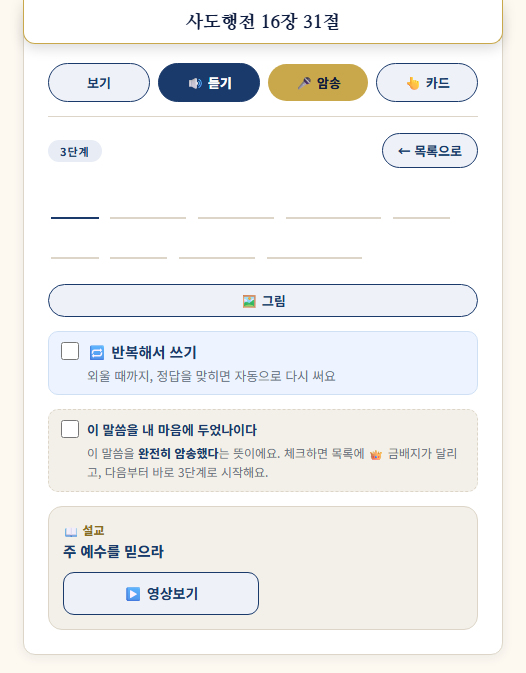
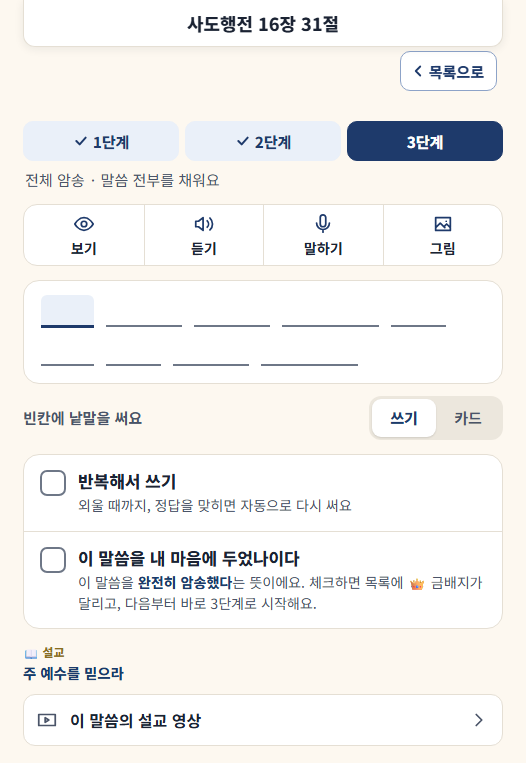
feat(디자인 개편): 암송 · 말씀 도전 화면 A안을 모든 성도님께(친구 「이제 시안대로 적용」) — v3.634
- MEMO_LAYOUT = "a" (롤백 "old" 한 줄 + bump · 깃 태그 memo-before-a-2026-10-14)
- 한 기기만 옛 화면: 설정 → 🔒 관리 페이지 「새 화면 / 옛 화면」 · ?memo=old · ?memo=off
- 미리보기 줄은 이 기기만 다르게 볼 때만 · B·C 시안 걷음(남은 b·c 표식은 A 로)
- 참인 말만: 설명서(말씀 암송 tip · 카드로 채우기 · 소리 내어 암송하기 · 말씀 도전) · 도움말 넷 · guide ⑤⑥ 문장 + 사진 셋 · ④ 손가락 자리

diff --git a/app.js b/app.js
@@ -6,7 +6,7 @@
 
 // 이 파일의 빌드 번호 — index.html의 app.js?v= 와 반드시 같아야 한다.
 // (tools/bump.py가 둘을 함께 올린다)
-const APP_BUILD = "20261014m";
+const APP_BUILD = "20261014n";
 
 // 배포 직후 CDN이 아직 옛 app.js를 내보내면, 브라우저는 그 옛 내용을 '새 주소'
 // 아래 캐시해 버린다. 주소가 다시 바뀌기 전까지(최대 10분) 옛 화면이 남는 이유다.
@@ -776,24 +776,41 @@ function albumAActive() {
   if (ALBUM_LAYOUT === "a") return true;
   try { return localStorage.getItem(ALBUM_A_KEY) === "1"; } catch (e) { return false; }
 }
-// ── 🧪 암송 화면 시안 A·B·C 미리보기(2026-10-14 친구 「암송화면 시안A, 시안B, 시안C 모두 만들어 주세요」 · docs/notes/design-refresh.md) ──
-//   ?memo=a|b|c 로 연 기기에서만 그 시안 꼴(?memo=off 나 화면 위 「원래」로 되돌림 · 표식 memo-preview 하나 · 화면 위 줄에서 A·B·C 를 바로 바꿔 본다).
-//   renderTestScreen 이 옛 화면을 다 그린 뒤 applyMemoLayout 이 **옮겨 담는다**(첫 화면 A안과 같은 방식) —
-//   빈칸 · 카드 · 채점 · 음성 · 저장 · 단계 완료 창은 옛 코드 그대로다(docs/notes/memorize-flow.md 의 함정 자리를 안 건드린다).
-//   ⚠ 위 구절 띠(.test-ref-sticky)에는 아무것도 넣지 않는다 — 아이폰 앱이 그 글자를 읽어 제 띠를 그린다(js/push.js). 그래서 「목록」은 띠 밑 첫 줄에.
+// ── 암송 · 말씀 도전 화면 꼴 스위치(2026-10-14 친구 「이제 시안대로 적용」 — 시안 A 를 모든 성도님께 · docs/notes/design-refresh.md) ──
+//   "a"   = 시안 A — renderTestScreen · renderChallenge 가 옛 화면을 다 그린 뒤 applyMemoLayout · applyChallengeA 가 **옮겨 담는다**(첫 화면 A안과 같은 방식).
+//           빈칸 · 카드 · 채점 · 음성 · 저장 · 단계 완료 창은 옛 코드 그대로다(docs/notes/memorize-flow.md 의 함정 자리를 안 건드린다).
+//   "old" = 옛 화면(10/14 전 그대로) — 옮겨 담기만 안 부르면 그 모습이다.
+//   ⚠ 롤백: 아래 값을 "old" 로 → python tools/bump.py → 푸시(2~3분). 바꾸기 직전 판은 깃 태그 memo-before-a-2026-10-14.
+//   한 기기만: ?memo=old(옛 화면 · 설정 → 🔒 관리 페이지에서도) · ?memo=a(A — 기본이 old 일 때 미리보기) · ?memo=off(기본으로). 표식 memo-preview 하나.
+//   (B · C 시안은 10/14 미리보기만 하고 걷었다 — 남은 b · c 표식은 A 로 본다 · style.css 의 .memo-b/.memo-c 덩이는 나중에 걷는다)
+//   ⚠ 위 구절 띠(.test-ref-sticky)에는 아무것도 넣지 않는다 — 아이폰 앱이 그 글자를 읽어 제 띠를 그린다(js/push.js). 그래서 「목록으로」는 띠 밑 줄에.
+const MEMO_LAYOUT = "a";
 const MEMO_KEY = "memo-preview";
 function readMemoPreviewParam() {
   try {
     const url = new URL(location.href);
     const m = url.searchParams.get("memo");
-    if (!["a", "b", "c", "off", "0"].includes(m)) return;
-    if (m === "a" || m === "b" || m === "c") localStorage.setItem(MEMO_KEY, m); else localStorage.removeItem(MEMO_KEY);
+    if (!["a", "b", "c", "old", "off", "0"].includes(m)) return;
+    if (m === "old") localStorage.setItem(MEMO_KEY, "old");
+    else if (m === "off" || m === "0") localStorage.removeItem(MEMO_KEY);
+    else localStorage.setItem(MEMO_KEY, "a");
     url.searchParams.delete("memo");
     history.replaceState(null, "", url.pathname + url.search + url.hash);
   } catch (e) {}
 }
+// 이 기기의 암송 · 도전 화면 꼴 — "a" 또는 ""(옛 화면)
 function memoVariant() {
-  try { const m = localStorage.getItem(MEMO_KEY); return m === "a" || m === "b" || m === "c" ? m : ""; } catch (e) { return ""; }
+  let m = "";
+  try { m = localStorage.getItem(MEMO_KEY) || ""; } catch (e) {}
+  if (m === "old") return "";
+  if (m === "a" || m === "b" || m === "c") return "a";
+  return MEMO_LAYOUT === "a" ? "a" : "";
+}
+// 이 기기만 다르게 보고 있나(미리보기 · 옛 화면) — 그때만 화면 위에 표시 줄을 단다
+function memoPreviewing() {
+  let m = "";
+  try { m = localStorage.getItem(MEMO_KEY) || ""; } catch (e) {}
+  return MEMO_LAYOUT === "a" ? m === "old" : !!m && m !== "old";
 }
 function homeAPreview() { try { return localStorage.getItem(HOME_A_KEY) === "1"; } catch (e) { return false; } }
 function homeOldView() { try { return localStorage.getItem(HOME_OLD_KEY) === "1"; } catch (e) { return false; } }
@@ -7589,16 +7606,14 @@ function applyMemoLayout(verse, stage) {
   const back = document.getElementById("back-to-list-btn");
   if (!sticky || !btnRow || !sentence) return;
 
-  // 0) 미리보기 표시 줄 — 그 자리에서 A · B · C · 원래를 바꿔 본다
+  // 0) 미리보기 표시 줄 — 기본이 옛 화면(MEMO_LAYOUT "old")인데 이 기기만 A 를 볼 때만(모두의 화면에는 없다)
   const bar = document.createElement("div");
   bar.className = "hb-bar mm-bar";
-  bar.innerHTML = `<span>🧪 암송 화면 시안 · 이 기기에서만</span><span class="mm-pick" role="group" aria-label="시안 고르기">` +
-    ["a", "b", "c"].map((k) => `<button type="button" data-v="${k}" aria-pressed="${k === v}">${k.toUpperCase()}</button>`).join("") +
-    `<button type="button" data-v="">원래</button></span>`;
-  bar.querySelectorAll("button[data-v]").forEach((b) => b.addEventListener("click", () => {
-    try { if (b.dataset.v) localStorage.setItem(MEMO_KEY, b.dataset.v); else localStorage.removeItem(MEMO_KEY); } catch (e) {}
+  bar.innerHTML = `<span>🧪 새 암송 화면 미리보기 · 이 기기에서만</span><span class="mm-pick"><button type="button" data-v="">원래 화면으로</button></span>`;
+  bar.querySelector("button[data-v]").addEventListener("click", () => {
+    try { localStorage.removeItem(MEMO_KEY); } catch (e) {}
     renderTestScreen(verse, stage);
-  }));
+  });
 
   // 1) 머리 — 「목록」 + 단계(B 는 한 줄 · A · C 는 두 줄)
   const head = document.createElement("div");
@@ -7622,8 +7637,7 @@ function applyMemoLayout(verse, stage) {
     steps.innerHTML = `<div class="mm-steprow"><span class="mm-st">${stage}단계 <span>/ 3단계</span></span><span class="mm-note">${note}</span></div>` +
       `<div class="mm-bars" aria-hidden="true">${[1, 2, 3].map((k) => `<i class="${k <= stage ? "on" : ""}"></i>`).join("")}</div>`;
   }
-  sticky.after(bar);
-  bar.after(head);
+  if (memoPreviewing()) { sticky.after(bar); bar.after(head); } else sticky.after(head);
   if (v === "b") head.appendChild(steps); else head.after(steps);
 
   // 2) 도구 — 보기 · 듣기 · 말하기(+ 그림 · 설교 영상 · 쓰기/카드)
@@ -7729,10 +7743,10 @@ function applyChallengeA(verse, hard) {
   if (card.querySelector(".ref-input")) scr.classList.add("mm-ref");
   const cardMode = isCardMode();
 
-  // 0) 미리보기 표시 줄
+  // 0) 미리보기 표시 줄 — 이 기기만 A 를 볼 때만(모두의 화면이 A 면 없다)
   const bar = document.createElement("div");
   bar.className = "hb-bar mm-bar";
-  bar.innerHTML = `<span>🧪 말씀 도전 시안 A · 이 기기에서만</span><span class="mm-pick"><button type="button" id="mm-ch-off">원래 화면으로</button></span>`;
+  bar.innerHTML = `<span>🧪 새 도전 화면 미리보기 · 이 기기에서만</span><span class="mm-pick"><button type="button" id="mm-ch-off">원래 화면으로</button></span>`;
   bar.querySelector("#mm-ch-off").addEventListener("click", () => {
     try { localStorage.removeItem(MEMO_KEY); } catch (e) {}
     stopSpeaking();
@@ -7762,8 +7776,7 @@ function applyChallengeA(verse, hard) {
     new MutationObserver(short).observe(remain, { childList: true, characterData: true, subtree: true });
     head.appendChild(remain);
   }
-  sticky.after(bar);
-  bar.after(head);
+  if (memoPreviewing()) { sticky.after(bar); bar.after(head); } else sticky.after(head);
 
   // 2) 도구 칸 — 힌트 · 다른 말씀 · 말하기 · 그림
   mmTool(document.getElementById("hint-btn"), "bulb", "힌트");
@@ -9307,19 +9320,21 @@ function renderManageMenu(back) {
   setupMemoPreviewBox(() => renderManageMenu(back));
 }
 
-// 🧪 암송 화면 시안 미리보기 켜기 — 이 기기에서만(2026-10-14 친구 「PC 에서는 되는데 모바일 폰에서는 시안 화면이 안 떠요」).
+// 🧪 이 기기의 암송 · 도전 화면 — 새 화면(A) / 옛 화면(2026-10-14 · 견주어 보기 · 롤백 전 시험용).
 //   ?memo= 주소는 그 주소를 연 브라우저에만 표식을 남긴다 — 플레이 앱 · 아이폰 앱 · 카카오톡 안 브라우저 · 삼성 인터넷은 저장 공간이 따로라
-//   폰에서는 주소로 켠 표식이 앱에 안 닿는다. 그래서 어느 앱에서든 들어오는 이 메뉴(설정 → 🔒 관리 페이지)에서 켜고 끈다(표식은 같은 memo-preview · memo-font).
-//   입구가 모든 성도님께 보이지만 바뀌는 것은 누른 그 기기의 암송 화면뿐이고, 암송 화면 위 「원래」로도 끈다.
+//   폰에서는 주소로 켠 표식이 앱에 안 닿는다(친구 「모바일에서는 안 떠요」). 그래서 어느 앱에서든 들어오는 이 메뉴(설정 → 🔒 관리 페이지)에서 바꾼다.
+//   입구가 모든 성도님께 보이지만 바뀌는 것은 누른 그 기기뿐이다.
 function memoPreviewBoxHtml() {
   const v = memoVariant();
-  const btn = (attr, val, label, on) => `<button type="button" ${attr}="${val}" aria-pressed="${on}">${label}</button>`;
+  const btn = (val, label, on) => `<button type="button" data-pv="${val}" aria-pressed="${on}">${label}</button>`;
+  // 누르면 넣을 표식 — 기본(MEMO_LAYOUT)과 같은 꼴이면 표식을 지운다
+  const newVal = MEMO_LAYOUT === "a" ? "" : "a", oldVal = MEMO_LAYOUT === "a" ? "old" : "";
   return `
         <div class="mg-pv">
-          <div class="mg-pv-t">🧪 암송 화면 시안 미리보기 <span>이 기기에서만</span></div>
-          <div class="mg-pv-row" role="group" aria-label="시안">${[["a", "A"], ["b", "B"], ["c", "C"]].map(([k, l]) => btn("data-pv", k, l, v === k)).join("")}${btn("data-pv", "", "끄기", !v)}</div>
-          <button type="button" class="summary-install" id="mg-pv-open"${v ? "" : " disabled"}>📖 이번 주 말씀 암송 화면 열기</button>
-          <p class="btn-sub mg-pv-note">${v ? `지금 이 기기는 시안 ${v.toUpperCase()}로 보여요.` : "시안을 고르면 이 기기의 암송 화면만 그 모양으로 바뀌어요."} 다른 분 화면은 그대로예요.</p>
+          <div class="mg-pv-t">🧪 암송 · 도전 화면 <span>이 기기에서만</span></div>
+          <div class="mg-pv-row" role="group" aria-label="화면 꼴">${btn(newVal, "새 화면", v === "a")}${btn(oldVal, "옛 화면", v !== "a")}</div>
+          <button type="button" class="summary-install" id="mg-pv-open">📖 이번 주 말씀 암송 화면 열기</button>
+          <p class="btn-sub mg-pv-note">${MEMO_LAYOUT === "a" ? "모든 성도님은 새 화면이에요." : "모든 성도님은 옛 화면이에요."} 여기서 바꾸면 이 기기에서만 달라져요.</p>
         </div>`;
 }
 function setupMemoPreviewBox(rerender) {
@@ -9534,14 +9549,14 @@ const MANUAL = [
       "맞으면 <b>초록색</b>으로 바뀌고 다음 칸으로 넘어가요.",
       "틀리면 잠깐 <b>빨간색</b>이 되고, 다시 넣으면 돼요.",
     ],
-    tip: "막히면 위쪽 <b>보기</b>를 누르세요. 정답이 나와요. <b>이번주 말씀</b>은 첫 화면 가운데 카드의 <b>암송하기</b>로 바로 갈 수 있어요.",
+    tip: "막히면 말씀 위 도구 칸의 <b>보기</b>를 누르세요. 정답이 나와요. 다른 구절로 가시려면 위쪽 <b>‹ 목록으로</b>를 누르세요. <b>이번주 말씀</b>은 첫 화면 가운데 카드의 <b>암송하기</b>로 바로 갈 수 있어요.",
   },
   {
     icon: "👆", title: "카드로 채우기",
     lead: "자판이 어려우시면 낱말을 눌러서 채워요.",
     art: '<div class="mn-row"><span class="mn-chip">내</span><span class="mn-chip">말씀은</span><span class="mn-chip">발에</span><span class="mn-chip">주의</span></div>',
     steps: [
-      "<b>암송·도전</b> 어느 화면에서나 위쪽 <b>👆 카드</b>를 누르세요.",
+      "<b>암송·도전</b> 화면의 말씀 아래 <b>쓰기 | 카드</b>에서 <b>카드</b>를 누르세요.",
       "아래에 말씀의 <b>낱말 카드</b>가 섞여서 나와요.",
       "빈칸 <b>순서대로</b> 맞는 카드를 누르면 채워져요.",
       "틀린 카드는 흔들리기만 하고 넘어가지 않아요.",
@@ -9564,11 +9579,11 @@ const MANUAL = [
   {
     icon: "🎤", title: "소리 내어 암송하기",
     lead: "소리 내어 외우셔도 됩니다.",
-    art: '<div class="mn-row"><span class="mn-btn mn-btn-on">🎤 암송</span></div>',
+    art: '<div class="mn-row"><span class="mn-btn mn-btn-on">🎤 말하기</span></div>',
     steps: [
-      "암송 화면 위쪽 <b>🎤 암송</b>을 누르세요.",
+      "암송·도전 화면 도구 칸의 <b>말하기</b>(마이크)를 누르세요.",
       "말씀을 <b>소리 내어</b> 외우세요.",
-      "다 하시면 <b>■ 종료</b>를 누르세요.",
+      "다 하시면 같은 자리의 <b>종료</b>를 누르세요.",
       "얼마나 맞았는지 알려 줍니다. <b>85%</b> 넘게 맞으면 통과예요.",
     ],
     tip: "처음에 폰이 <b>마이크를 써도 되냐</b>고 물어봐요. <b>「허용」</b>을 누르세요.",
@@ -9579,8 +9594,8 @@ const MANUAL = [
     art: '<div class="mn-row"><span class="mn-btn mn-btn-on">🔥 말씀 도전</span></div>',
     steps: [
       "첫 화면 <b>🔥 말씀 도전</b>을 누르면 말씀 하나가 <b>무작위로</b> 나와요. 전부 빈칸이에요.",
-      "막히면 <b>💡 힌트</b>를 누르세요. 앞 글자부터 한 글자씩 보여 줍니다.",
-      "다른 말씀으로 하고 싶으시면 <b>🔀 다른말씀</b>을 누르세요.",
+      "막히면 도구 칸의 <b>힌트</b>를 누르세요. 앞 글자부터 한 글자씩 보여 줍니다.",
+      "다른 말씀으로 하고 싶으시면 <b>다른 말씀</b>을 누르세요. 위쪽에 <b>남은 빈칸</b> 수가 보여요.",
     ],
     tip: "암송·도전을 한 횟수가 모두 <b>🏆 도전 순위</b>에 올라가요. 첫 화면 맨 아래 <b>📕 구절</b>을 켜 두면 도전 때 <b>구절(예: 시 119:105)</b>도 함께 써요.",
   },
@@ -9915,23 +9930,23 @@ function renderHelp(onClose) {
             <li><b>2단계</b> 빈칸 늘리기 — 더 많은 빈칸 (약 65%)</li>
             <li><b>3단계</b> 전체 암송 — 출처만 보고 전체 입력</li>
           </ul>
-          <p>맞으면 초록색으로 잠기고 다음 칸으로 이동해요. 틀리면 잠깐 빨갛게 표시된 뒤 다시 입력할 수 있어요. 모든 칸을 맞히면 다음 단계로 넘어가요. 막히면 위쪽 <b>보기</b>로 정답을 볼 수 있어요.</p>
-          <p>자판이 번거로우시면 <b>👆 카드</b>를 누르세요. 낱말 카드를 순서대로 눌러 채워요. <b>암송·도전</b>에서 모두 쓸 수 있어요. 늘 카드로 하시려면 <b>⚙ 설정 → 암송 입력 방법</b>(첫 화면 맨 아래 <b>⌨ 쓰기</b> 단추와 같아요)에서 바꿔 두세요.</p>
+          <p>맞으면 초록색으로 잠기고 다음 칸으로 이동해요. 틀리면 잠깐 빨갛게 표시된 뒤 다시 입력할 수 있어요. 모든 칸을 맞히면 다음 단계로 넘어가요. 막히면 말씀 위 도구 칸의 <b>보기</b>로 정답을 볼 수 있어요.</p>
+          <p>자판이 번거로우시면 말씀 아래 <b>쓰기 | 카드</b>에서 <b>카드</b>를 누르세요. 낱말 카드를 순서대로 눌러 채워요. <b>암송·도전</b>에서 모두 쓸 수 있어요. 늘 카드로 하시려면 <b>⚙ 설정 → 암송 입력 방법</b>(첫 화면 맨 아래 <b>⌨ 쓰기</b> 단추와 같아요)에서 바꿔 두세요.</p>
         </section>
 
         <section class="help-section">
           <h3>🔥 말씀 도전</h3>
-          <p><b>말씀 도전</b>은 말씀 하나를 무작위로 골라 전부 빈칸으로 내 줘요. 막히면 <b>💡 힌트</b>가 앞 글자부터 한 글자씩 보여 줘요. 암송·도전 횟수는 모두 <b>도전 순위</b>에 더해져요.</p>
+          <p><b>말씀 도전</b>은 말씀 하나를 무작위로 골라 전부 빈칸으로 내 줘요. 막히면 도구 칸의 <b>힌트</b>가 앞 글자부터 한 글자씩 보여 줘요. 암송·도전 횟수는 모두 <b>도전 순위</b>에 더해져요.</p>
         </section>
 
         <section class="help-section">
           <h3>🔊 말씀 듣기</h3>
-          <p>말씀 목록의 <b>🔊</b>로 말씀을 들을 수 있어요. <b>빠르게 여러 번 누르면 그 횟수만큼 반복</b>해서 읽어줘요. 목록 맨 위 <b>▶ 전체 듣기</b>는 처음부터 끝까지 이어서 읽어 주고, 암송 화면의 <b>🔊 듣기</b>는 한 번 더 누르면 멈춰요. 읽는 속도는 <b>⚙ 설정</b>에서 바꿀 수 있어요.</p>
+          <p>말씀 목록의 <b>🔊</b>로 말씀을 들을 수 있어요. <b>빠르게 여러 번 누르면 그 횟수만큼 반복</b>해서 읽어줘요. 목록 맨 위 <b>▶ 전체 듣기</b>는 처음부터 끝까지 이어서 읽어 주고, 암송 화면 도구 칸의 <b>듣기</b>는 한 번 더 누르면 멈춰요. 읽는 속도는 <b>⚙ 설정</b>에서 바꿀 수 있어요.</p>
         </section>
 
         <section class="help-section">
           <h3>🎤 음성 암송</h3>
-          <p><b>🎤 암송</b>을 누르고 말씀을 소리 내어 외운 뒤 <b>■ 종료</b>를 누르면 정확도를 알려줘요 (<b>85%</b> 이상이면 통과). 크롬·사파리에서 마이크를 허용해 주세요.</p>
+          <p>도구 칸의 <b>말하기</b>를 누르고 말씀을 소리 내어 외운 뒤 <b>종료</b>를 누르면 정확도를 알려줘요 (<b>85%</b> 이상이면 통과). 크롬·사파리에서 마이크를 허용해 주세요.</p>
         </section>
 
         <section class="help-section">

diff --git a/guide/index.html b/guide/index.html
@@ -187,18 +187,18 @@ var STEPS = [
     say:"구절을 하나 누르면 암송이 시작돼요. 맨 위 <b>▶ 전체 듣기</b>를 누르면 처음부터 끝까지 이어서 읽어 줍니다.",
     tip:"구절 옆 🔊 를 누르면 그 말씀 하나만 들려줘요." },
 
-  { img:"shots/stage1.png", t:"④ 빈칸 채우기", tap:{x:47,y:45},
+  { img:"shots/stage1.png", t:"④ 빈칸 채우기", tap:{x:49,y:54},
     s:"1단계는 빈칸이 조금이에요.",
     say:"밑줄 친 곳에 말씀을 넣으세요. 맞으면 <b>초록색</b>이 되고 다음 칸으로 넘어가요. 틀리면 잠깐 빨간색이 됐다가 다시 넣으시면 됩니다." },
 
   { img:"shots/stage3.png", t:"⑤ 3단계 · 전부 빈칸",
     s:"1단계 → 2단계 → 3단계로 올라가요.",
-    say:"3단계는 요절만 보고 전부 넣는 단계예요. 막히면 위쪽 <b>보기</b>를 누르시면 정답이 나와요. 자판이 번거로우시면 <b>👆 카드</b>를 눌러 낱말을 골라 채우셔도 돼요 — 암송·도전에서 모두 쓸 수 있어요.",
+    say:"3단계는 요절만 보고 전부 넣는 단계예요. 막히면 도구 칸의 <b>보기</b>를 누르시면 정답이 나와요. 자판이 번거로우시면 말씀 아래 <b>쓰기 | 카드</b>에서 <b>카드</b>를 눌러 낱말을 골라 채우셔도 돼요 — 암송·도전에서 모두 쓸 수 있어요.",
     tip:"완전히 외우셨으면 아래 「이 말씀을 내 마음에 두었나이다」에 체크하세요. 👑 금배지가 달려요." },
 
   { img:"shots/challenge.png", t:"⑥ 말씀 도전",
     s:"외운 말씀을 빠르게 점검해요.",
-    say:"첫 화면의 <b>🔥 말씀 도전</b>은 구절을 무작위로 내 줍니다. 막히면 <b>💡 힌트</b>가 앞 글자부터 한 글자씩 보여 줘요. <b>🎤 암송</b>을 누르면 소리 내어 외우셔도 돼요." },
+    say:"첫 화면의 <b>🔥 말씀 도전</b>은 구절을 무작위로 내 줍니다. 막히면 <b>힌트</b>가 앞 글자부터 한 글자씩 보여 줘요. <b>말하기</b>를 누르면 소리 내어 외우셔도 돼요." },
 
   { img:"shots/album.png", t:"⑦ 나의 말씀 앨범",
     s:"외운 말씀이 모이는 곳이에요.",

diff --git a/index.html b/index.html
@@ -68,7 +68,7 @@
   <link rel="preconnect" href="https://fonts.gstatic.com" crossorigin />
   <link href="https://fonts.googleapis.com/css2?family=Gowun+Batang:wght@400;700&family=Lora:wght@400;600;700&family=Nanum+Myeongjo:wght@400;700;800&family=Noto+Sans+KR:wght@400;500;700;800&display=swap" rel="stylesheet" media="print" onload="this.media='all'" />
   <noscript><link href="https://fonts.googleapis.com/css2?family=Gowun+Batang:wght@400;700&family=Lora:wght@400;600;700&family=Nanum+Myeongjo:wght@400;700;800&family=Noto+Sans+KR:wght@400;500;700;800&display=swap" rel="stylesheet" /></noscript>
-  <link rel="stylesheet" href="style.css?v=20261014m" />
+  <link rel="stylesheet" href="style.css?v=20261014n" />
 </head>
 <body>
   <!-- 앱 시작 스플래시 화면 -->
@@ -77,7 +77,7 @@
       <img id="splash-logo" src="img/logo-gocheok.png" alt="고척교회" />
       <div class="splash-title">오직 성경, 말씀이 답이다!</div>
       <div class="splash-sub">주의 말씀은 내 발에 등이요<br>내 길에 빛이니이다</div>
-      <div class="splash-ver">v3.633</div>
+      <div class="splash-ver">v3.634</div>
       <img class="splash-denom" src="logo3.png?v=20260702y" alt="대한예수교장로회총회" onerror="this.style.display='none'" />
     </div>
   </div>
@@ -110,11 +110,11 @@
     <p style="text-align:center;padding:40px">불러오는 중...</p>
   </main>
 
-  <script src="js/config.js?v=20261014m"></script>
-  <script src="js/api.js?v=20261014m"></script>
-  <script src="js/push.js?v=20261014m"></script>
-  <script src="js/psalm.js?v=20261014m"></script>
-  <script src="js/events.js?v=20261014m"></script>
-  <script src="app.js?v=20261014m"></script>
+  <script src="js/config.js?v=20261014n"></script>
+  <script src="js/api.js?v=20261014n"></script>
+  <script src="js/push.js?v=20261014n"></script>
+  <script src="js/psalm.js?v=20261014n"></script>
+  <script src="js/events.js?v=20261014n"></script>
+  <script src="app.js?v=20261014n"></script>
 </body>
 </html>

diff --git a/admin.html b/admin.html
@@ -74,7 +74,7 @@
     // 교회 어드민으로 옮긴 관리 화면은 여기서 걷었다 — 성도 정보(2026-10-09) · 이벤트 · 찬양 아카이브 · 내게 주시는 말씀 기록 · 사역관리(2026-10-13).
     //   남은 것(성경암송 관리 · 설교·찬양 관리)은 설교 실전 확인 뒤 마지막 걷기에(docs/notes/admin-migration.md).
     //   ⚠ 교회 어드민(admin.onlybible.kr)으로 가는 타일은 두지 않는다(2026-10-13 친구 — 그곳은 주소로 직접 들어간다).
-    { ic:"📖", title:"성경암송 관리", desc:"통계 · 알림발송 · 주간리포트 · 게시판", href:"admin-stats.html?v=20261014m" },
+    { ic:"📖", title:"성경암송 관리", desc:"통계 · 알림발송 · 주간리포트 · 게시판", href:"admin-stats.html?v=20261014n" },
     { ic:"⛪", title:"설교·찬양 관리", desc:"설교 올리기(두 단계) · 설교 목록 · 매일 묵상 · 담당자 — 담당자도 이 주소로", href:"admin-sermon.html" },
     { ic:"🎬", title:"환영 인트로 미리보기", desc:"첫 방문 인트로 4장 — 성도님 화면엔 영향 없음", href:"index.html?preview=intro" },
     { ic:"🙏", title:"축복 인사 미리보기", desc:"첫 로그인 축복 카드 — 로그인 상태에서 확인", href:"index.html?preview=blessing" },

diff --git a/docs/notes/design-refresh.md b/docs/notes/design-refresh.md
@@ -66,6 +66,13 @@
 - 확인(2026-10-13 · localhost 개발 DB · 시험 계정에 10구절 마침·마음에 둠 2 를 그 브라우저 안에서만 꾸밈): 390 밝게 · 390 어둡게+크게 · 320 아주 크게 · 360 아주 크게+어둡게 × 기본 · 가리기 둘 + 엿보기 + 확인 · 첫 글자만 · 골라 듣기 · 풀이 · 「원래 화면으로」 → 넘침 0 · 잘림 0 · 화면 오류 0. 고친 것 둘: 320 아주 크게에서 제목이 세 줄로 꺾임(오른쪽 빈 칸 `.aa-ghost` 를 좁은 폰·아주 크게에서 뺌) · 360 아주 크게에서 「확인」이 아랫줄로(도구 줄 여백 줄임 · 320 아주 크게는 아직 아랫줄 — 잘리지는 않는다).
 - 같은 날 고친 것(v3.616): 위 「‹ 첫 화면」을 빼고 아래 고정 「첫 화면으로」를 되살렸다 · 「3분요약도 함께 듣기」 칩도 한 줄로. 확인 — 마지막 카드 아래 끝이 「첫 화면으로」 위(390: 720 < 768 · 320 아주 크게: 444 < 492). 미리보기 표시 줄은 모두에게 열면 사라진다.
 
+## ✅ 2026-10-14 암송 · 말씀 도전 화면 A안을 모든 성도님께(v3.634 · 친구 「이제 시안대로 적용」 → 「지금 적용」)
+- 스위치 `app.js` `MEMO_LAYOUT = "a"` · **롤백은 "old" 한 줄 + bump**(깃 태그 `memo-before-a-2026-10-14`). 한 기기만: 설정 → 🔒 관리 페이지 「🧪 암송 · 도전 화면 — 새 화면 / 옛 화면」 또는 `?memo=old` · `?memo=off`(기본으로). 표식 `memo-preview`("old" · 롤백 뒤 미리보기면 "a").
+- 미리보기 표시 줄은 이 기기만 다르게 볼 때만 뜬다(`memoPreviewing`). B · C 시안은 걷었다 — 남은 b · c 표식은 A 로 본다(`style.css` 의 `.memo-b` · `.memo-c` 덩이는 아직 남아 있다 — 다음 정리 때 걷는다).
+- 같이 고친 말(스킬 copy-truth): 설명서 「말씀 암송」 tip(도구 칸의 보기 · 위쪽 ‹ 목록으로) · 「카드로 채우기」(말씀 아래 쓰기 | 카드) · 「소리 내어 암송하기」(말하기 · 종료 · 그림 글도) · 「말씀 도전」(힌트 · 다른 말씀 · 남은 빈칸) · 도움말 넷 · `guide/` ⑤ · ⑥ 문장 + 사진 셋(stage1 · stage3 · challenge — ④ 손가락 표시 자리도 첫 빈칸으로).
+- 아직 옛 모양: 주제별 성경암송(네비게이토) 3단계 화면 · 복습 화면(친구 — 다음에 A 로) · 쉴만한 물가(제 꼴). 설명서 「주제별 성경암송」의 「👆 카드」는 그 화면이 바뀔 때 함께.
+- ⚠ 확인 못 한 것: 아이폰 앱(띠를 앱이 그려 머리 줄 자리를 90px 로 짐작) · 영어(NIV) 모드(개발 DB 에 영어 말씀이 없다).
+
 ## 🧪 암송 화면 시안 A · B · C 미리보기 — `?memo=a|b|c` (2026-10-14 · 친구 「암송화면 시안A, 시안B, 시안C 모두 만들어 주세요」)
 - **폰에서는 설정 → 🔒 관리 페이지 → 「🧪 암송 화면 시안 미리보기」**에서 켠다(아래 ⚠). PC 브라우저는 **https://gocheok.onlybible.kr/?memo=a**(또는 `b` · `c`)로 연 기기에서만 암송 화면(`renderTestScreen` — 이번 주 말씀 · 말씀 목록에서 들어가는 화면)이 그 시안 꼴이다. 화면 위 표시 줄에서 **A · B · C · 원래**를 그 자리에서 바꿔 본다(`?memo=off` 도 원래로). 표식은 localStorage `memo-preview` 하나 — 주소를 모르는 성도님 화면은 그대로다.
 - **옮겨 담기**(첫 화면 A안과 같은 방식) — `renderTestScreen` 이 옛 화면을 다 그린 뒤 `applyMemoLayout` 이 단추를 옮기고 꾸민다. 빈칸 · 카드 · 채점 · 음성 · 기록 · 단계 완료 창은 옛 코드 그대로(`memorize-flow.md` 의 함정 자리를 안 건드린다). CSS 는 `style.css` 끝 「🧪 암송 화면 시안 A · B · C」 덩이 — 모두 `.test-screen[data-memo]` 아래.

diff --git a/CLAUDE.md b/CLAUDE.md
@@ -59,7 +59,7 @@
 | 봉사 당번(2026-10-06 운영 · 문 닫힘 — 🧪만) — `duty_signups` 에 직접 쓰지 말 것 | `docs/notes/duty-roster.md` |
 | 관리 기능을 교회 어드민으로 옮기기(2026-10-08 결정) | `docs/notes/admin-migration.md` · `docs/backlog.md` 4-5 |
 | 안드로이드 앱(TWA)·위젯·플레이스토어(새 앱 `kr.onlybible.gocheok`) | `docs/notes/android-app.md` |
-| 디자인 개편(2026-10-12 시작 · 시안 A·B·C 의견 수렴 중 — 고르기 전엔 입히지 말 것) · 「전」 사진 `자료/design/` · **먼저 넣은 것**(10-12 운영): 첫 화면 남은 수·전체 수·% 빼기 · 말씀 목록 시안 B 구조(본문 두 줄 · 거르기 칸 「진행·마침·마음에 둠·안 함」 · 힌트는 마음에 둔 구절에만) · 상태 이름 「아직 안 함 · 1단계 마침 · 다 마침」 · **첫 화면 A안 운영(2026-10-13 · 이번 주 말씀 아래 줄 목록) — 롤백 `app.js` `HOME_LAYOUT = "old"` 한 줄 + bump(깃 태그 `home-before-a-2026-10-13`)** · 한 기기만 `?home=old` · B안 미리보기 `?home=b` · `?home=off` · **나의 말씀 앨범 A안 운영(2026-10-13 v3.617 · 롤백 `app.js` `ALBUM_LAYOUT = "old"` 한 줄 + bump)** · 「첫 화면으로」는 시안과 달리 늘 아래에 떠 있게(친구) · **✍ 말씀 글꼴 설정(2026-10-14 · 기본 고딕 · `html[data-wf]`)** · **말씀 도전 A안(미리보기 A 를 고른 기기만 · `applyChallengeA`)** · **암송 화면 시안 A·B·C 미리보기 `?memo=a|b|c`(2026-10-14 · 화면 위 줄에서 바꿔 보기 · 위 구절 띠에는 아무것도 넣지 말 것 — 아이폰 앱이 읽는다)** | `docs/notes/design-refresh.md` |
+| 디자인 개편(2026-10-12 시작 · 시안 A·B·C 의견 수렴 중 — 고르기 전엔 입히지 말 것) · 「전」 사진 `자료/design/` · **먼저 넣은 것**(10-12 운영): 첫 화면 남은 수·전체 수·% 빼기 · 말씀 목록 시안 B 구조(본문 두 줄 · 거르기 칸 「진행·마침·마음에 둠·안 함」 · 힌트는 마음에 둔 구절에만) · 상태 이름 「아직 안 함 · 1단계 마침 · 다 마침」 · **첫 화면 A안 운영(2026-10-13 · 이번 주 말씀 아래 줄 목록) — 롤백 `app.js` `HOME_LAYOUT = "old"` 한 줄 + bump(깃 태그 `home-before-a-2026-10-13`)** · 한 기기만 `?home=old` · B안 미리보기 `?home=b` · `?home=off` · **나의 말씀 앨범 A안 운영(2026-10-13 v3.617 · 롤백 `app.js` `ALBUM_LAYOUT = "old"` 한 줄 + bump)** · 「첫 화면으로」는 시안과 달리 늘 아래에 떠 있게(친구) · **✍ 말씀 글꼴 설정(2026-10-14 · 기본 고딕 · `html[data-wf]`)** · **암송 · 말씀 도전 A안 운영(2026-10-14 v3.634 — 롤백 `app.js` `MEMO_LAYOUT = "old"` 한 줄 + bump · 깃 태그 `memo-before-a-2026-10-14` · 한 기기만 설정 → 관리 페이지 「옛 화면」/`?memo=old`) · 위 구절 띠(`.test-ref-sticky`)에는 아무것도 넣지 말 것 — 아이폰 앱이 읽는다** | `docs/notes/design-refresh.md` |
 
 ## 폴더 — 참고·산출물은 `자료/` (2026-10-08)
 화면이 안 쓰는 참고·산출물은 모두 `자료/` 아래다 — `marketing`·`ministry`·`store`·`psalm`·`migrate`·`booklet`(GitHub) + `education`·`newfamily`·`AppForm`·`Picture`·`당회보고`(로컬). **`자료/` 는 사이트로 안 나간다.**
